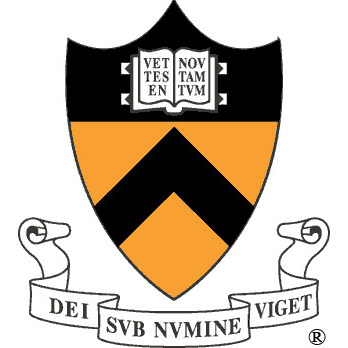
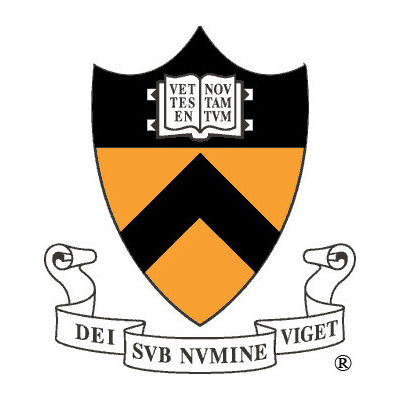
Further tweaks to experience (resume) sec.
- Remove dates
 - resume --> exprience
 - update institution image branding
 - better image centering

Changed region(s): [[0.0287, 0.0, 0.9483, 1.0]]

diff --git a/_includes/resume.html b/_includes/resume.html
@@ -3,12 +3,16 @@
         <div class="container">
             <div class="row">
                 <div class="col-lg-12 text-center">
-                    <h2 class="section-heading">Abbreviated Resume</h2>
+                    <h2 class="section-heading">Experience</h2>
                     <h3 class="section-subheading
-			       text-muted">Education and Experience<br/>
-		    <br/>Full
-                    Resume; Downloads: <a href="{{ "/IzaakBeekmanResume.pdf" | prepend: site.baseurl }}"><i class="fa
-                    fa-file-pdf-o"></i></a> <a href="{{ "/IzaakBeekmanResume.docx" | prepend: site.baseurl }}"><i class="fa fa-file-word-o"></i></a></h3>
+			       text-muted">
+                      Resume Downloads:
+		      <a href="{{ "/IzaakBeekmanResume.pdf" | prepend: site.baseurl }}">
+			<i class="fa fa-file-pdf-o"></i>
+		      </a>
+		      <a href="{{ "/IzaakBeekmanResume.docx" | prepend: site.baseurl }}">
+			<i class="fa fa-file-word-o"></i>
+		    </a></h3>
                 </div>
             </div>
             <div class="row">
@@ -25,12 +29,7 @@
                       </div>
                       <div class="timeline-panel">
                         <div class="timeline-heading">
-			  {% if item.end %}
-			  {% capture ending %}{{ item.end | date:"%B %Y" }}{% endcapture %}
-			  {% else %}
-			  {% assign ending = "Present" %}
-			  {% endif %}
-                          <h4>{{ item.begin | date:"%B %Y" }}&ndash;{{ ending }}
+                          <h4>{{ item.institution | escape_once }}
 			  </h4>
                           <h4 class="subheading">{{ item.title | escape_once }}</h4>
                         </div>

diff --git a/_includes/header.html b/_includes/header.html
@@ -19,7 +19,7 @@
                         <a href="#page-top"></a>
                     </li>
                     <li>
-                        <a class="page-scroll" href="#resume">Resume</a>
+                        <a class="page-scroll" href="#resume">Experience</a>
                     </li>
                     <!-- <li> -->
                     <!--     <a class="page-scroll" href="#services">Services</a> -->
